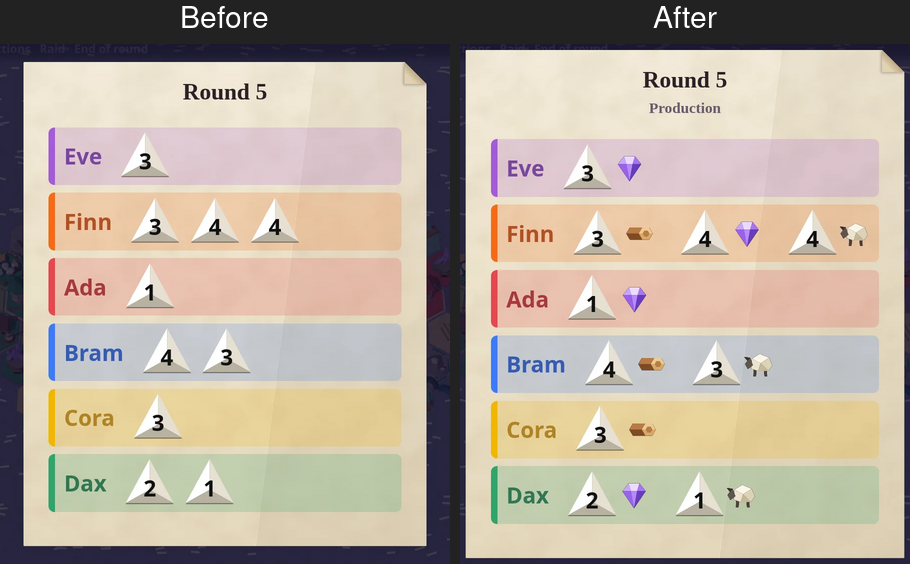
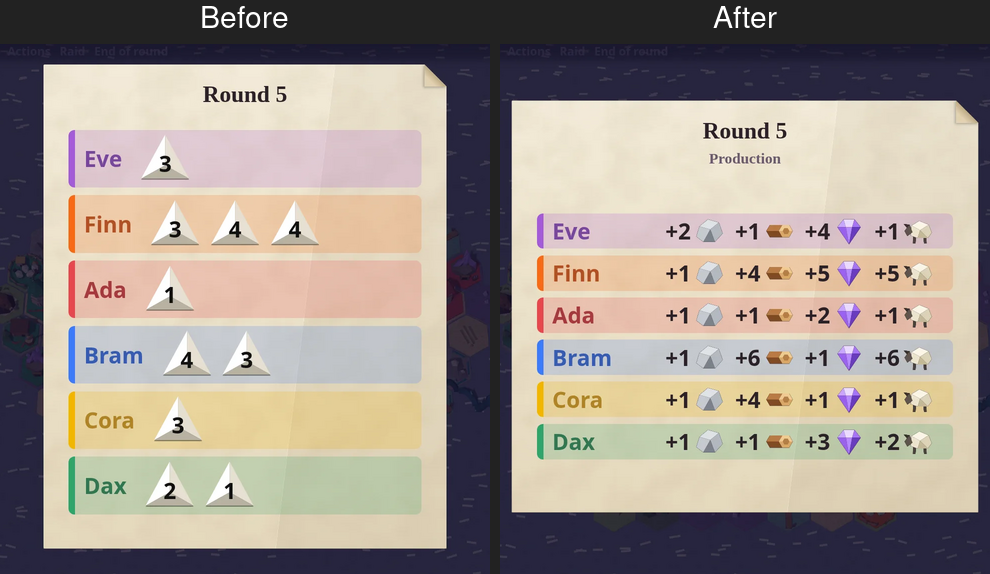
Production scene: shots wait for each step; before/after screenshots (#230)
Claude-Session: https://claude.ai/code/session_01MEmTqFywn8ZHL7LsekMwRy

diff --git a/src/shots/scenes.ts b/src/shots/scenes.ts
@@ -314,7 +314,7 @@ export const SCENES: Scene[] = [
     seed: 1,
     until: (g) => g.round === 1 && g.phase === 'action',
     shots: (g) => [
-      { file: 'tv-opening-production-2p', caption: 'TV, round 1 (2 players): the round opens with production (no dice to roll yet, only the tower)', client: 'tv', waitMs: 600 },
+      { file: 'tv-opening-production-2p', caption: "TV, round 1 (2 players): production, the first player's tower only (no dice to roll yet)", client: 'tv', waitFor: '#overlay .production .pturn.on .ptotal.up', hold: true, waitMs: 500 },
       { file: 'phone-opening-hand-2p', caption: 'Phone, round 1: the first hand, on your turn', client: 'phone', seat: g!.turn, sizes: true },
       { file: 'phone-opening-waiting-2p', caption: "Phone, round 1: someone else's turn", client: 'phone', seat: (g!.turn + 1) % 2 },
       { file: 'phone-reconnecting', caption: 'Phone: the connection to the server dropped', client: 'phone', seat: g!.turn, offline: true },
